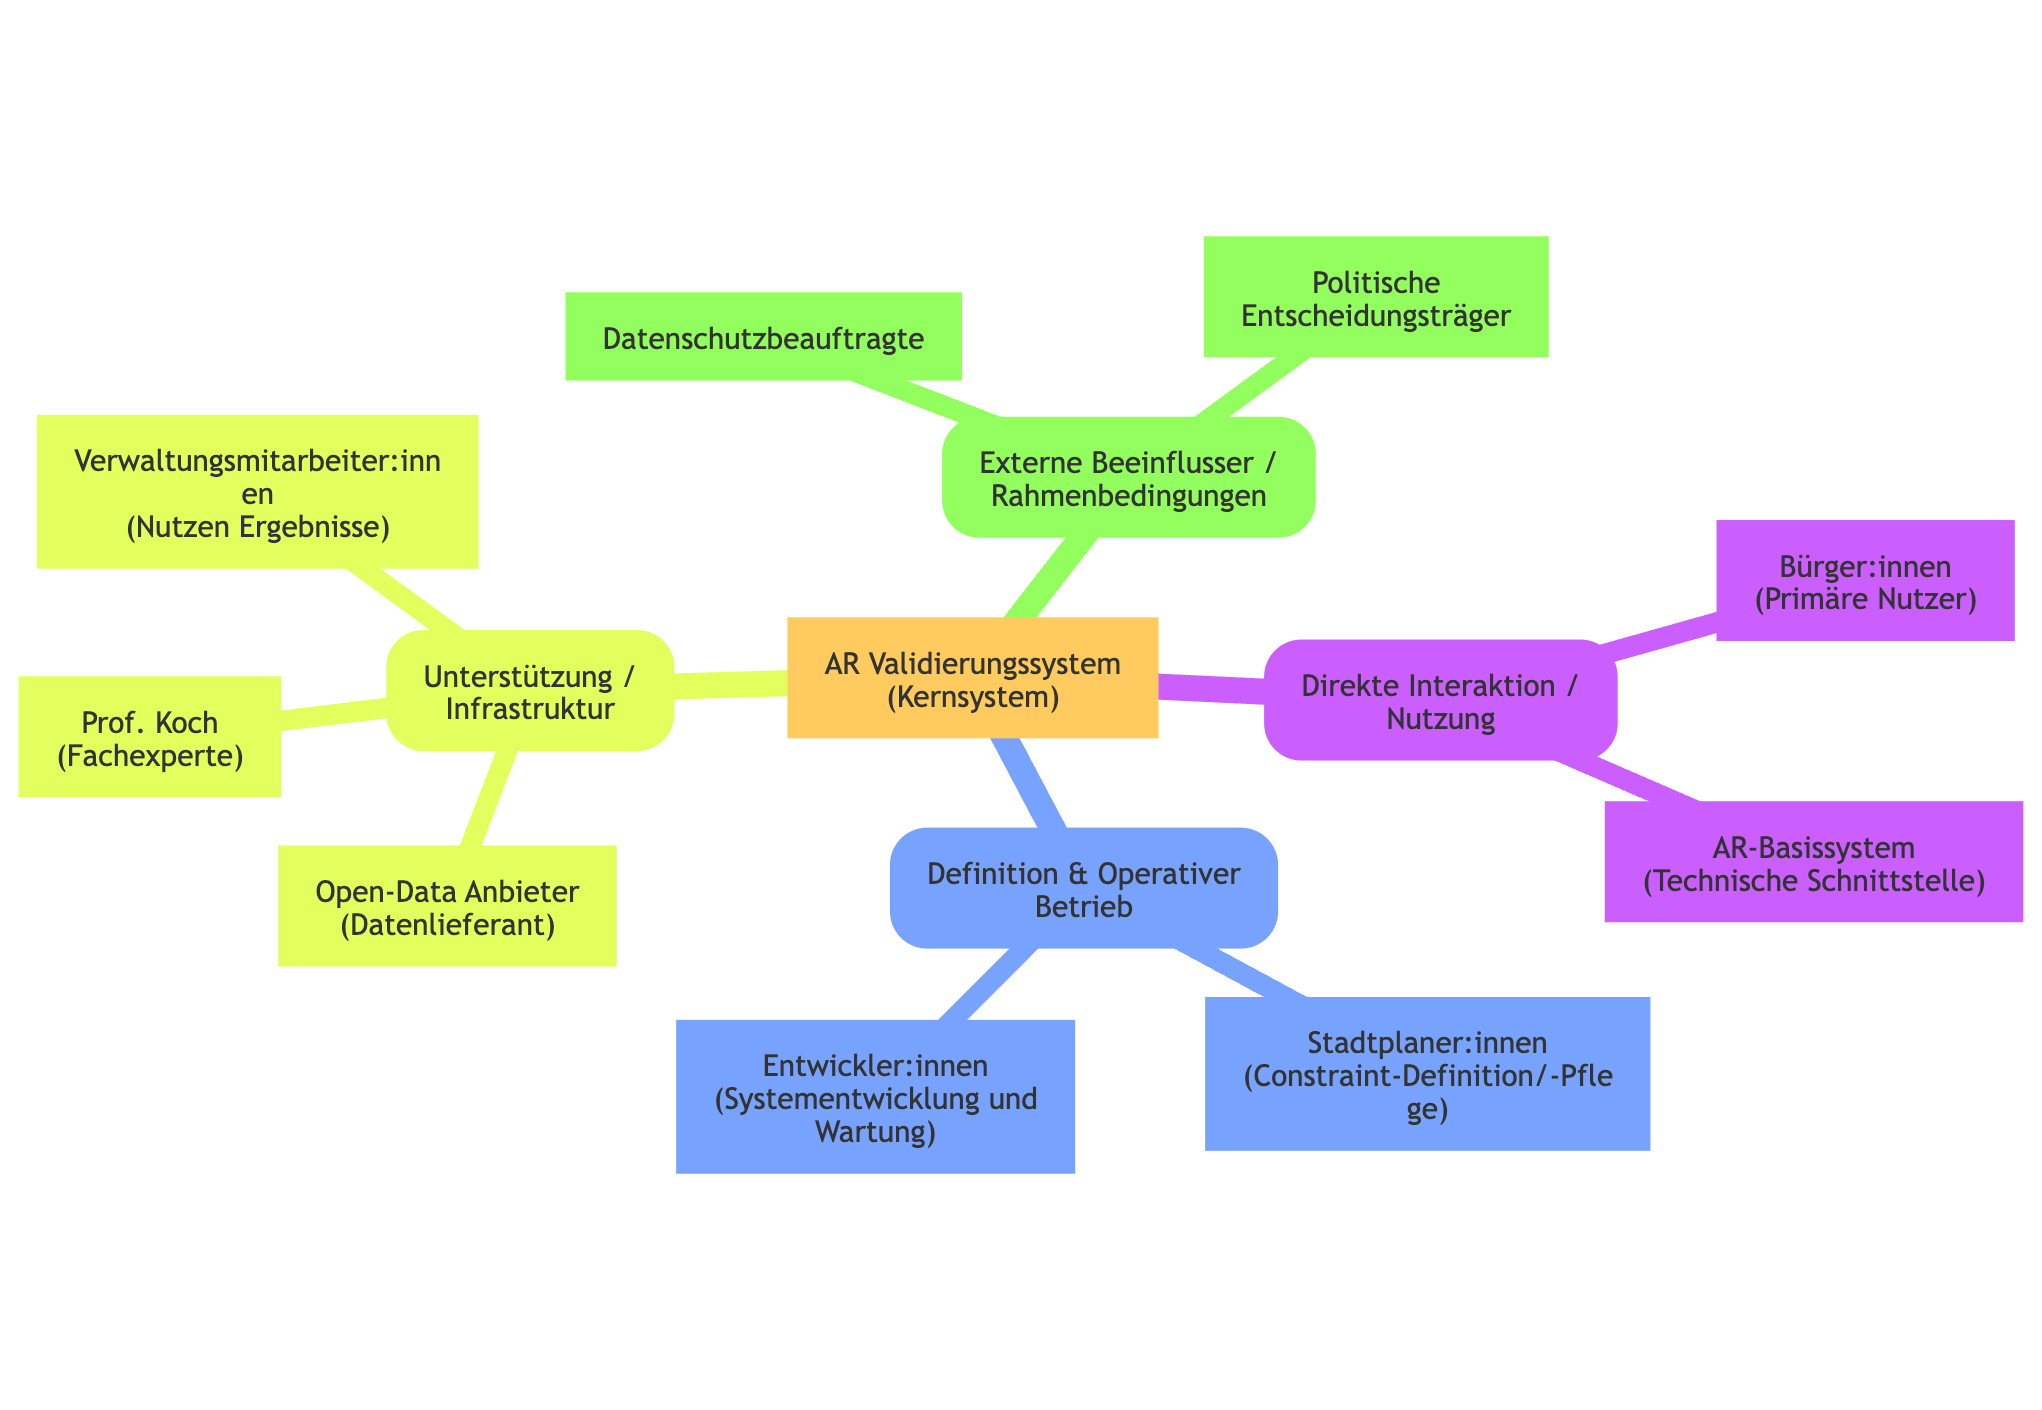
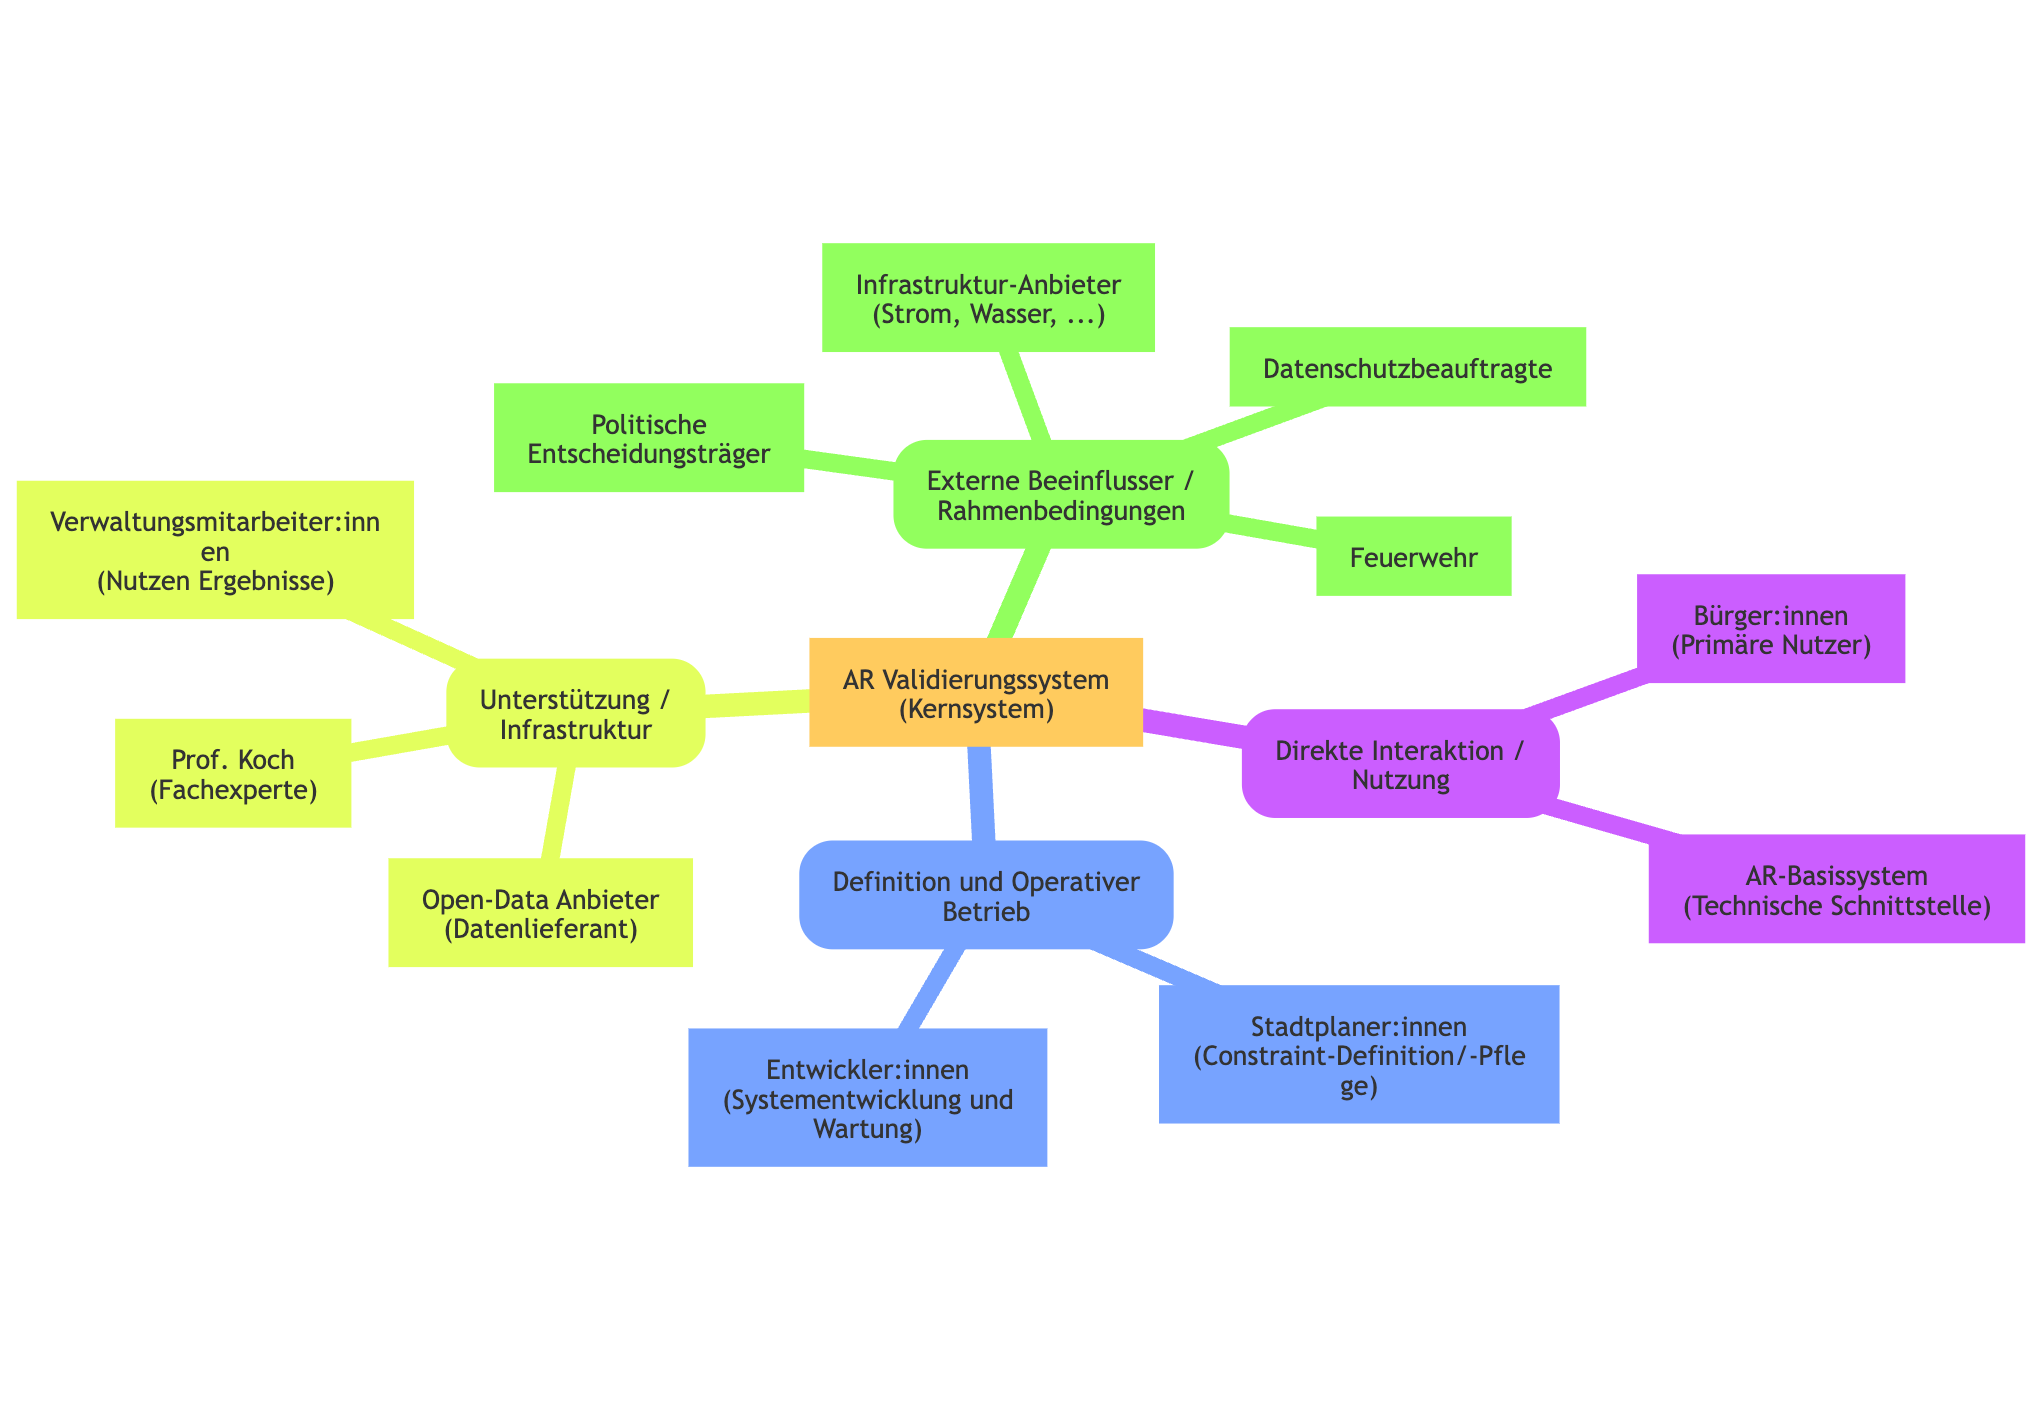
Updates from Overleaf

Changed region(s): [[0.0, 0.156, 1.0, 0.8426]]

diff --git a/content/50 Konzeptualisierung eines Constraint-Systems.tex b/content/50 Konzeptualisierung eines Constraint-Systems.tex
@@ -2,21 +2,21 @@
 
 \subsection{Erstellung einer Syntax für Constraints}
 
-Die Erstellung eines Syntax zur Definition von Regeln für Objekte wird in dieser Arbeit als Domain Specific Language (DSL) Engineering Aufgabe betrachtet. Um ein strukturiertes Vorgehen bei der Ausarbeitung durchzuführen, orientiert sich dieses Kapitel an dem fünfstufigen Prozess zur DSL-Definition nach \textcite{mernikWhenHowDevelop2005}, mit Anpassungen zur besseren Integration in die bisherigen Vorarbeiten der vorherigen Kapitel.
+Die Erstellung einer Syntax zur Definition von Regeln für Objekte wird in dieser Arbeit als \textit{Domain Specific Language} (DSL) Engineering Aufgabe betrachtet. DSL sind solche Programmiersprachen, welche auf spezifische Anwendungsfälle spezialisiert sind und hierdurch eine höhere Ausdruckskraft und Nutzungsfreundlichkeit in diesem Feld als generische Sprachen erreichen können. Im Gegensatz zu generischen Programmiersprachen muss das Ziel einer DSL nicht zwingend sein, einen ausführbaren Code zu generieren, sondern kann vielmehr auch der Ausführung eines größeren Systems dienen. \parencite[S. 316f]{mernikWhenHowDevelop2005}
+
+Um ein strukturiertes Vorgehen bei der Ausarbeitung durchzuführen, orientiert sich dieses Kapitel an dem fünfstufigen Prozess zur DSL-Definition nach \textcite{mernikWhenHowDevelop2005}, mit Anpassungen zur besseren Integration in die bisherigen Vorarbeiten der vorherigen Kapitel.
 
 \subsubsection{Entscheidung}
 
-Der erste Schritt für die Entwicklung eines DSL nach \textcite{mernikWhenHowDevelop2005} ist die Entscheidung, ob ein DSL notwendig ist und um welchen DSL-Typ es sich handelt.
+Der erste Schritt in der Entwicklung eines DSL nach \textcite{mernikWhenHowDevelop2005} ist die Entscheidung, ob ein DSL notwendig ist und um welchen DSL-Typ es sich handeln soll.
 
-Der ARVal Constraint Syntax (nachfolgend \textit{ACS}) kann hierbei als “Data structure representation” kategorisiert werden, da es die Datenstruktur der Regelpakete als separate Datei darstellt.
+Der ARVal Constraint Syntax (nachfolgend \textit{ACS}) kann hierbei als “Data structure representation” typisiert werden, da es die Datenstruktur der Regelpakete als separate Datei darstellt.
 
 Die Spezifizität dieser Art von Daten „relies on initialized data structures whose complexity may make them difficult to write and maintain. Such structures are often more easily expressed using a DSL“ \parencite[S. 323]{mernikWhenHowDevelop2005}. Aus diesem Grund wird die Implementierung eines spezifischeren DSL für den Regel-Syntax als sinvoll angesehen.
 
 \subsubsection{Analyse}
 
 Für die Konzeptionierung einer DSL wird empfohlen, zunächst eine Analyse der Problemdomäne durchzuführen. Teile dieser Ausarbeitung wurde in dieser Arbeit bereits in Kapitel \ref{section:Requirements-Engineering} als Teil des Requirements Engineering durchgeführt.
-
-// TODO: FODA
 
 Abweichend zu \textcite{mernikWhenHowDevelop2005} werden zur besseren Einordnung der benötigten Komponenten der finalen Sprache werden zunächst formale Anforderungen an den Syntax definiert, analog zum bestehenden Requirements Engineering Ansatz.
 
@@ -31,7 +31,7 @@ R-2 & Erweiterbar für Elemente und Methoden \\ \hline
 R-3 & Geeigneter Abstraktionsgrad \\ \hline
 R-4 & Umsetzung als visueller Editor möglich \\ \hline
 R-5 & Eindeutige, nicht-ambigue Definition von Regeln \\ \hline
-R-6 & Unterstützung einfacher Boolean Operationen (AND / OR) \\ \hline
+R-6 & Unterstützung boolscher Operationen (AND / OR) und Verschachtelung \\ \hline
 R-7 & Unterstützung positiver und negativer Regeln \\ \hline
 \end{tabular}
 \caption{Anforderungen an die Constraint-Syntax}
@@ -70,7 +70,7 @@ Wie in Kapitel \ref{section:Verwandte Arbeiten} erarbeitet, sind Regeln in natü
 
 \medskip
 
-Durch R-6 wird definiert, dass einfache Boolean-Operationen von UND- sowie ODER-Verknüpfungen unterstützt werden sollen. Hierdurch sollen komplexere, kontextabhängige Regeln umgesetzt werden können wie „Steht die Bank an einem Gehweg, \textit{muss} diese parallel zum Weg stehen \textit{ODER} wenn die Bank auf einer Grünfläche steht, \textit{kann} diese beliebig rotiert werden“. 
+Durch R-6 wird definiert, dass boolsche Operationen von UND- sowie ODER-Verknüpfungen unterstützt werden sollen, inklusive einer Verschachtelung dieser Operatoren. Hierdurch sollen komplexere, kontextabhängige Regeln umgesetzt werden können wie „Steht die Bank an einem Gehweg, \textit{muss} diese parallel zum Weg stehen \textit{ODER} wenn die Bank auf einer Grünfläche steht, \textit{kann} diese beliebig rotiert werden“. 
 
 \medskip
 
@@ -84,13 +84,7 @@ Durch die Einhaltung dieser formalen Anforderungen kann erhofft werden, die Argu
 
 \epigraph{Design only what is necessary. Learn to recognize your tendency to over-design.}{\textcite[S. 327]{mernikWhenHowDevelop2005}}
 
-Der dritte Schritt in der Syntax-Definition nach \textcite{mernikWhenHowDevelop2005} ist die Durchführung des Syntax-Designs.
-
-Zur Erfüllung der Anforderung R-1 soll das Konzept der Language Specification genutzt werden, um die Infrastruktur einer bestehenden Host-Sprache zu nutzen und für die eigenen DSL zu spezifizieren. 
-
-\textcite{mernikWhenHowDevelop2005} untersucht primär XML-basierte DSL, JSON bietet mittlerweile jedoch ebenfalls eine hohe Unterstützung zu bestehenden Werkzeugen an und besitzt mit JSON Schemas eine Möglichkeit, den Constraint-Syntax zu formalisieren und automatisch in bestehenden Code-Editoren validieren zu lassen \parencite{jsonschemaorganisationJSONSchema2025}. Durch die aktuelle Verbreitung von JSON im Umfeld von Webapplikationen und Ähnlichkeit zu nativen JavaScript-Objekten wird dies daher als Grundlage für \textit{ACS} genutzt.
-
-Durch die Nutzung dieses System kann ebenfalls konzeptionell ein zukünftiger Regel-Editor (R-4) eingearbeitet werden. Die Regeln und Schemas können von diesem Editor verarbeitet und manipuliert werden, ohne eigene Parser-Systeme implementieren zu müssen.
+Der dritte Schritt in der Syntax-Definition nach \textcite{mernikWhenHowDevelop2005} ist die Durchführung des Syntax-Designs. In diesem Schritt werden alle Vorüberlegen zur DSL genutzt, um einer Syntax zur Erfüllung dieser zu definieren.
 
 \medskip
 
@@ -105,6 +99,18 @@ Beispielsweise können die Objekte „Straße“ und „Gehweg“ den Tag „asp
 Zukünftig können hierdurch beliebig neue Tags und Elemente hinzugefügt und können problemlos in bestehende Regeln eingearbeitet werden, ohne den Gesamtsyntax neu definieren zu müssen.
 
 Die Nutzung eines Tagging-System ermöglicht zudem die Nutzung eines geeigneten Abstraktionsgrads (R-3). In Regeldefinitionen kann explizit von „Straße“, „Asphaltiert“ oder „Walkable“ ausgegangen werden, einzelne Methoden können jedoch trotzdem generisch auf alle Tag-Typen angewendet werden.
+
+\medskip
+
+Zur Erfüllung der Anforderung R-1 soll das Konzept der Language Specification genutzt werden, um die Infrastruktur einer bestehenden Host-Sprache zu nutzen und für die eigenen DSL zu spezifizieren. 
+
+\textcite{mernikWhenHowDevelop2005} untersucht primär XML-basierte DSL. JSON bietet mittlerweile jedoch ebenfalls eine hohe Unterstützung zu bestehenden Werkzeugen an und besitzt mit JSON Schemas eine Möglichkeit, den Constraint-Syntax zu formalisieren und automatisch in bestehenden Code-Editoren validieren zu lassen \parencite{jsonschemaorganisationJSONSchema2025}.
+
+Neben dem JSON-basierten Ansatz wurden zusätzlich andere Ansätze als SQL-ähnliche Statements, Code-ähnliche Methodenaufrufe oder OCL-ähnliche Aussagen untersucht, welche in Listing \ref{lst:schemaformate} [S. \pageref{lst:schemaformate}, \ref{anh:Schemaformate}] dargestellt sind. Die untersuchten Formate ergeben sich aus anderen Constraint-Sprachen, welche in den vorherigen Kapiteln untersucht wurden.
+
+Inhaltlich besitzen alle untersuchten Formate ähnliche Elemente, damit die aufgestellten Anforderungen an der Syntax erfüllt werden. So besitzt der Syntax jeweils eine Möglichkeit, um das Tagging des Objekts vorzunehmen, die Transformation einzuschränken und die Platzierung zu validieren. 
+
+Durch die Verbreitung von JSON im Umfeld von Webapplikationen, Ähnlichkeit zu nativen JavaScript-Objekten und Integration in bisherige Sprachen wurde dieser Syntax schließlich als Grundlage für \textit{ACS} genutzt. Die Nutzung des JSON-Schema-Systems kann ebenfalls konzeptionell für einen zukünftigen Regel-Editor (R-4) eingearbeitet werden. Die Regeln und Schemas können von diesem Editor verarbeitet und manipuliert werden, ohne eigene Parser-Systeme implementieren zu müssen.
 
 \medskip
 
@@ -201,7 +207,51 @@ Beispielsweise ist es grundsätzlich nicht sinnvoll, dass der Nutzer einen Baum 
 
 Neben dem informellen Design durch ein konkretes Beispiel wurde ein formelles Design durch die Definition eines JSON-Schemas erstellt, erreichbar unter \url{https://arval.vantezzen.io/acs.schema.json}.
 
-TODO: Dscribe schema
+JSON-Schema Dateien erlauben die Definition von Attributen des Objekts (\textit{Properties}), einer Typisierung und Beschreibung der einzelnen Felder und Definition von verpflichtenden und freiwilligen Feldern.
+
+Eine Besonderheit in der Definition der \textit{ACS}-Schema ist, dass Platzierungsregeln mehrere Ebenen tief verschachtelt sein können und daher rekursiv ausgewertet werden müssen. Zur Erfüllung der Anforderung R-6 (Boolean Operationen), sollen Verschachtelungen wie „\textmono{(a UND b) ODER (c UND (d ODER e))}“ ermöglicht werden. Zur Nutzung von boolischen Operatoren wurden die Elemente „anyOf“ (ODER) und „allOf“ (UND) hinzugefügt, inspiriert vom eigenen Syntax von JSON-Schema Definitionen.
+
+\begin{lstlisting}[frame=htrbl, caption={Komplexe Verschachtelungen boolscher Operationen in ACS}, label={lst:acs-recursive}, language=php]
+{
+  "$schema": "./acs.schema.json",
+  
+  "placement": [
+    {
+      "anyOf": [
+        {
+          // (a OR b)
+          "allOf": [a, b]
+        },
+        {
+          // (c UND (d ODER e))
+          "allOf": [
+            c,
+            // d ODER e
+            {
+              "anyOf": [d, e]
+            }
+          ]
+        }
+      ]
+    }
+  ]
+}
+\end{lstlisting}
+
+Listing \ref{lst:acs-recursive} zeigt die Implementierung dieser Verschachtelung in \textit{ACS} über die Nutzung der „anyOf“ und „allOf“ Operatoren. Um diese Art von rekursiver Definition erlaubter Objekte in der JSON-Schema abzubilden, wurde die Unterstützung wiederverwendbarer Definitionen (\textmono{\$defs}) genutzt.
+
+Intern wird durch die Nutzung der Definition \textmono{placementRuleOrGroup} erlaubt, dass die Platzierung von spezifischen Regeln oder weiteren booleschen Gruppen innerhalb der booleschen Gruppe möglich ist und kann so beliebig verschachtelt werden.
+
+\begin{figure}[h]
+\includegraphics[width=0.7\textwidth]{abb/schema autocomplete.png}
+\centering
+\caption{Nutzung des Schemas in Code-Editoren}
+\label{fig:schema autocomplete}
+\end{figure}
+
+Abbildung \ref{fig:schema autocomplete} zeigt die Nutzung des Schemas im Code-Editor VSCode. Es ist erkennbar, dass über das \textmono{\$schema} Attribut auf das lokale Schema-File verwiesen wird. Bei Erstellung eines neuen Attributs greift der Code-Editor nun auf die Definitionen aus dem Schema zurück und bietet Autovervollständigungen für valide Attributnamen sowie Beschreibungen zu den einzelnen Feldern an.
+
+Wird stattdessen ein invalider Attributname genutzt, wird dieser im Code-Editor rot unterlegt und erhält die Mitteilung „Property \textit{Parametername} is not allowed“.
 
 \subsection{Aufbereitung geographischer Informationen}
 

diff --git a/anhang/anh_Schemaformate.tex b/anhang/anh_Schemaformate.tex
@@ -1,0 +1,43 @@
+\begin{lstlisting}[frame=htrbl, caption={Schemaformate}, label={lst:schemaformate}, language=php]
+// JSON
+{
+    "$schema": "...",
+    "placement": [
+        {
+            "rule": "on_ground"
+        }
+    ],
+    "manipulation": [
+        {
+            "axis": "x_rotation",
+            "status": "disable"
+        }
+    ],
+    "tags": ["plantable", "collider"]
+}
+
+// SQL-like
+- DISALLOW PLACEMENT WHERE ground.type = "street"
+- DISALLOW ROTATION WHERE axis = "x"
+- TAG WITH "plantable"
+    
+// Code-like
+position({
+    on_ground
+    distance_to street > 3m
+    placement_only_on grass
+})
+movement({
+    only_spin
+    no_scale
+})
+tags({
+    plantable
+    collider
+})
+
+// OCL-like
+- context Bench inv: self->placed_on != placement.street
+- context Bench inv: self->movement->x = 0
+- context Bench post: self->tags->add("plantable")
+\end{lstlisting}

diff --git a/content/40 Konzeptualisierung von Constraints.tex b/content/40 Konzeptualisierung von Constraints.tex
@@ -65,14 +65,43 @@ Zur Abgrenzung des Projektumfangs enthält Tabelle \ref{tab:Projektabgrenzung} e
 
 \subsection{Elicitation}\label{subsection:Elicitation}
 
-Für eine vollständige, umfassende Aufarbeitung der benötigten Komponenten wurde zunächst eine mehrteilige Erhebung aller relevanten Ressourcen durchgeführt. Hierbei wurden verschiedene Techniken kombiniert, darunter ein Dokumentenstudium, aufgearbeitet in Kapitel \ref{section:Verwandte Arbeiten}, ein Experteninterview, aufgearbeitet in Kapitel \ref{subsubsection:Interview mit Prof. Koch}, sowie Beobachtungstechniken zu bisherigen Technologien, aufgearbeitet in Kapitel \ref{subsubsection:Analyse existierender Constraint-Systeme}.
+Für eine vollständige, umfassende Aufarbeitung der benötigten Komponenten wurde zunächst eine mehrteilige Erhebung aller relevanten Ressourcen durchgeführt. Hierbei wurden verschiedene Techniken kombiniert, darunter ein Dokumentenstudium, aufgearbeitet in Kapitel \ref{section:Verwandte Arbeiten}, ein Experteninterview, aufgearbeitet in Kapitel \ref{subsubsection:Experteninterview}, sowie Beobachtungstechniken zu bisherigen Technologien, aufgearbeitet in Kapitel \ref{subsubsection:Analyse existierender Constraint-Systeme}.
 
-\subsubsection{Interview mit Prof. Koch}\label{subsubsection:Interview mit Prof. Koch}
+\subsubsection{Experteninterview}\label{subsubsection:Experteninterview}
 
-Für die Erhebung von Anforderungen aus Sicht der Stadtplanung wurde ein qualitatives, halbstrukturiertes Experteninterview mit Prof. Dr. Florian Koch, Professor für Immobilienwirtschaft, Stadtentwicklung und Smart Cities an der HTW Berlin, durchgeführt \parencite{kochStartseiteProfDr2025}.
+Für die Erhebung von Anforderungen aus Sicht der Stadtplanung wurde ein qualitatives, halbstrukturiertes Experteninterview mit einem Stadtplaner durchgeführt. Ziel des Gesprächs war es, die realen Herausforderungen und aktuellen Stand von Bürgerbeteiligung zu erarbeiten, und einen Überblick über die Denkweise in Verwaltungen und Stadtplanungen zu erhalten. Das vollständige Interview ist in \ref{anh:Experteninterview Stadtplaner} [S. \pageref{anh:Experteninterview Stadtplaner}] verschriftlicht.
 
-TODO
-% Interview mit Prof. Koch, Stadtplaner, über häufige Vorschläfe, nötige Einschränkungen etc.
+Das Interview bestätigte zunächst, dass Bürgerbeteiligungen aktuell vor allem formal strukturiert stattfinden. Als Beispiel wurde hierfür die Plattform \textit{Mein Berlin}\footnote{\url{http://mein.berlin.de/}} genannt, bei welchem Planungsunterlagen von Behörden bereitgestellt und von Bürgern kommentiert werden können. Konzepte für andere Formate existieren zwar, sind aber meist nur experimentell, selten institutionalisiert und auf Forschungsprojekte beschränkt.
+
+In vielen Fällen sei hierbei die Einbindung der Ideen schwierig, da Bürgerinteressen immer nur einen Aspekt von vielen darstellt. Für die Umsetzung von Veränderungen müssen etwa zusätzliche Meetings mit vielen Partien durchgeführt werden, darunter Verwaltungen, Stadtplaner, Feuerwehr, Wasser- und Stromversorger und Eigentümer.
+
+\medskip
+
+Im Kern des Gesprächs standen vor allem die Grenzen und Chancen automatisierten Validierungsmechanismen, wie solche, die in ARVal umgesetzt werden sollen. Es zeigte sich deutlich, dass viele scheiternde Vorschläge aus drei Hauptkategorien resultieren: (1) Eigentums- und Haftungsfragen, (2) Maßstäblichkeit und technische Umsetzbarkeit, sowie (3) langfristige Pflege und Unterhalt.
+
+Die Frage nach dem Eigentum ist oft komplex in der Beantwortung. Zwar besitzt die öffentliche Hand ein Grundbuch, dieses ist jedoch nicht öffentlich einsehbar. Flächen auf Privatgrundstück können jedoch auch nicht prinzipiell für Vorschläge ausgeschlossen werden, da es in Abstimmung mit den Eigentümern auch trotzdem zur Akzeptanz von Ideen kommen kann. Bei Veränderung von beispielsweise Schulhöfen muss zusätzlich geklärt werden, welche der Parteien die Haftungen bei Unfällen übernimmt.
+
+Im zweiten Punkt steht die Maßstäblichkeit und technische Umsetzbarkeit von Ideen. Dies beinhaltet etwa die Beschränkung von Platz bei großen Bauvorhaben, aber auch Budget-Einschränkungen und Interessen anderer Nutzer, darunter auch z.B. Feuerwehr-Wendekreisen, Wartungsflächen für unterirdische Versorgung oder Bodenbelastungen durch historische Nutzung.
+
+Zuletzt muss auch die langfristige Pflege und Unterhalt der Gegenstände und Flächen geklärt werden. Auch wenn etwa das Pflanzen eines Baumes zunächst günstig ist, muss dieser jährlich gepflegt und beschnitten werden, um eine Gefährdung auszuschließen.
+
+Für die vollständige Klärung aller Aspekte ist für das Projekt ARVal ein vollständig valides und kontextsensitives Regelwerk (z.B. zu Feuerwehr-Wendekreisen oder Bodenbelastungen) systemisch kaum abbildbar ist – nicht nur aufgrund technischer Limitationen, sondern weil auch Verwaltungen selbst solche Informationen oft nicht konsolidiert vorliegen haben. Trotzdem kann versucht werden, öffentlich bekannte Aspekte abzubilden.
+
+\medskip
+
+Dennoch eröffnet das Interview auch konkrete Chancen für das System. Ein wiederkehrendes Motiv war die Bedeutung von Nachvollziehbarkeit für Bürger:innen. Ein häufiger Punkt partizipativer Stadtplanung sei dabei, dass Bürger:innen zwar Zeit und Arbeit für Vorschläge aufwenden, jedoch nie über die weitere Verarbeitung informiert werden. Die Transparenz der Entscheidung, auch bei Nicht-Umsetzbarkeit, wird dabei als zentral für die Akzeptanz empfunden.
+
+Durch die direkte Validierung der Vorschläge können Bürger:innen nicht nur eine Rückmeldung bekommen, sondern auch über die Details der Ablehnung informiert werden durch verständliche, kontextuell begründete Fehlermeldungen. Erhält der Nutzer beispielsweise die Information „Die Bank kann hier nicht platziert werden, da sie die Zufahrt für Rettungsfahrzeuge blockieren würde“, kann einer potenziellen Frustration über die Ablehnung entgegengewirkt werden.
+
+\medskip
+
+Zuletzt wurde im Interview erarbeitet, dass eine Balance zwischen utopischen Vorschlägen und zu stark beschränkter „Alibi-Beteiligung“ gefunden werden muss. Ein System, das zu stark durch harte Regeln limitiert, könnte den Eindruck erwecken, dass Bürger:innen lediglich aus vorgegebenen Optionen wählen dürfen und individuelle Ideen nicht akzeptiert werden. Ist das System jedoch zu offen, kann stattdessen der Verwaltungsaufwand in Behörden durch Auswertung nicht umsetzbarer Ideen erhöht werden.
+
+\medskip
+
+Insgesamt bestätigt das Interview sowohl die Relevanz als auch die Grenzen des geplanten Systems und fügt den Aspekt der Nachvollziehbarkeit als zentrales Element hinzu. Es kann vor allem erhofft werden, dass die Implementierung von Begründungen für Einschränkung die Frustration bei Nutzern durch Ablehnung verringern kann.
+
+Es kann keine vollständige Abbildung der Relationen und Interessen aller Parteien abgebildet werden, da die Erstellung eines all-umfänglichen System für die Verwaltung aller Interessen weit über ARVal hinaus geht. Trotzdem können einige der grundlegenden Prüfungen automatisiert und formell abgebildet werden.
 
 \subsubsection{Analyse existierender Constraint-Systeme}\label{subsubsection:Analyse existierender Constraint-Systeme}
 

diff --git a/anhang/anh_Interview.tex b/anhang/anh_Interview.tex
@@ -1,0 +1,27 @@
+\begin{flushleft}
+\textbf{Interview mit einem Stadtplaner über digitale Beteiligung und Regeln für öffentliche Räume} \\
+Durchgeführt vom Autor im Rahmen der Masterarbeit. Das Interview wurde transkribiert und sprachlich leicht geglättet, ohne inhaltliche Änderungen.
+\end{flushleft}
+
+\begin{description}
+\item[Author:] Welche Form von partizipativer Stadtplanung begegnen Ihnen am meisten? Oder was für digitale Werkzeuge werden genutzt?
+\item[Stadtplaner:] Es gibt ja unterschiedliche Arten von Partizipation. Das eine ist Information, dann eben Mitgestaltung oder auch Mitentscheidung. Und es gibt, je nachdem, in was für einem Kontext man sich befindet, eine formelle Art der Beteiligung. Das heißt, es gibt eine Information darüber, wenn ein Bebauungsplan erstellt wird. Und das wird dann, in Berlin beispielsweise, auf einer Plattform angekündigt, und man kann dann Kommentare dazu schreiben. Das ist eine Form, die relativ formalisiert ist. Das heißt, dass die bei sehr vielen Beteiligungsverfahren, die das Land Berlin durchführt, auch angewandt wird. Das hat so ein paar Fallstricke, aber ist zumindest immer eine Möglichkeit, digitale Beteiligung durchzuführen. Alles andere sind dann eher experimentelle Verfahren, die mal ausprobiert werden. Also dass man irgendwelche, weiß ich nicht, virtuellen Szenarien entwirft mit den Bürgerinnen und Bürgern. Das ist aber nicht die Standardbeteiligung. Also wie gesagt, die Standardbeteiligung, die die Stadtplanungsämter durchführen, ist plattformbasiert. Dann wird ein Plan ausgelegt, kennen Sie sicher. Und dann gibt es die Möglichkeit, da Kommentare zu geben.
+\item[Author:] Haben Sie da irgendwelche Erfahrungen, was denn am meisten als Kommentar gesetzt wird? Gibt es da irgendwelche Muster?
+\item[Stadtplaner:] Nein, das hängt natürlich vom Verfahren ab, um was es geht. Also es gibt da ganz unterschiedliche Anlässe, um das zu machen. Und je nachdem, was für ein Anlass es ist, sind natürlich auch die Kommentare unterschiedlich. Wenn es darum geht, dass ein neuer Bebauungsplan aufgestellt wird, dann ist eines der häufigsten Kommentare, auch wenn ich das jetzt nicht statistisch validiert habe, dass es die Bürgerinnen und Bürger generell nicht gut finden und erstmal grundsätzlich ablehnen, weil das führt zu mehr Verkehr, das führt zu Staub und Lärm beim Bauprozess, und eventuell wird auch noch die Sicht eingeschränkt. Also oftmals so eine ablehnende Haltung. Natürlich wird das dann auch teilweise noch differenziert. Aber das ist oftmals ein Ergebnis von Beteiligungsprozessen, dass das Projekt eben grundsätzlich infrage gestellt wird.
+\item[Author:] Um mal so ein bisschen mehr zu diesem vielleicht auch experimentellen Teil zu kommen. Ich glaube, Sie hatten da auch bei ein paar solcher experimentellen Szenarien mitgewirkt, wenn ich das richtig im Kopf habe?
+\item[Stadtplaner:] Ja, wir hatten auch ein Forschungsprojekt, wo es um Räume ging, die geteilt werden sollen. Und da hatten wir auch so ein paar Sachen ausprobiert, also auch so ein Beteiligungsformat. Das war ein bisschen schwierig, weil das war dann zu Corona Zeiten und insofern war es dann eben nur im digitalen Raum. Wir haben dann auch so ein paar Nachbarschaftstreffen gemacht. Da ging es darum, dass wir erstmal wissen wollten von den Bewohnerinnen und Bewohnern, welche Orte im Stadtteil ihnen besonders wichtig sind, welche Wünsche sie haben, was für Ängste sie auch haben und wo man vielleicht mit Flächen neu umgehen kann. Wir haben das aber relativ, ich sage mal, traditionell dann gemacht in Form wie gesagt einer Online-Befragung. Und daraufhin hatten wir dann ein beteiligtes Architekturbüro, hat dann daraufhin Entwürfe gezeichnet, und diese Entwürfe haben wir dann noch mal mit den Bewohnergruppen abgestimmt. Also es war nicht so, dass wir – was Ihr Forschungsprojekt macht – die Entwürfe im digitalen Raum irgendwie zur Verfügung gestellt haben, sondern es waren eben Zeichnungen, und über die haben wir dann diskutiert. Wir hatten noch ein anderes ganz nettes Format, wo wir einen Zeichner hatten, der Live-Zeichnungen gemacht hat. Das heißt, es gab ein Fest, die Leute haben erzählt, was sie sich alles wünschen, und dann gab es einen, der das live gezeichnet hat. Das war für die Bewohner eigentlich ganz nett anzugucken - okay, wie sieht sowas denn dann aus? Das waren dann auch teilweise ein bisschen verrückte Sachen. Da gab es dann eine Gruppe, die wollte einen öffentlichen Pizzabackofen, hat er das gezeichnet, und dann konnte man sich anschauen, wie so eine Skizze dann aussieht. Es war aber nicht so, dass wir von der Stadtverwaltung beauftragt wurden, Beteiligungsverfahren durchzuführen.
+\item[Author:] Wenn wir jetzt daran denken, dass Bürger über so ein System frei vorschlagen können. Gibt es da bestimmte Aspekte, die Ihnen einfallen würden, wo so etwas am ehesten scheitern könnte oder falsch sein könnte? So etwas wie Abstände, Barrierefreiheit etc.?
+\item[Stadtplaner:] Ja, der Hauptpunkt ist Eigentumsfragen. Wem gehört der Grund und Boden? Oftmals hat man da Vorstellungen darüber, dass man irgendwie etwas machen will, aber das ist dann auf dem Grundstück von jemand anderem, und dann funktioniert es eben nicht. Also das heißt, diese Eigentumsfragen spielen eine ganz große Rolle. Wenn man sich jetzt auf öffentlichen Plätzen bewegt, dann ist es einfacher. Das ist oftmals das Thema, dass diese Eigentumsfragen vernachlässigt werden, aber auch Haftungsfragen. Wenn man jetzt irgendwie den Schulhof neu umgestalten möchte, dann ist das ein Thema. Wie gesagt, hängt mit Eigentum auch zusammen. Ansonsten sind so ein paar Punkte. Klar, Abstandsflächen. Wenn ich jetzt sage, ich will ein neues Stadion – also wenn ich jetzt im großen Maßstab denke, ich will irgendwie ein neues Stadion bei mir im Kiez bauen – dann ist es aus 1000 Gründen nicht möglich. Also die Maßstäblichkeit, sich das zu überlegen. Technische Umsetzung: Wenn ich Kinder frage, was wollen sie am liebsten? Dann sagen die, sie wollen irgendwie ein Schwimmbad auf der Straße. Das ist dann natürlich technisch nicht umsetzbar. Ansonsten könnten Hindernisse auch noch irgendwie Lärmbelästigung sein. Wenn ich daran denke, dass Spielplätze, Sportplätze und so weiter gewünscht werden, dass das dann zu einer Lärmbelästigung führt und daher nicht möglich ist. Dann noch ganz wichtig ist die Frage der Pflege. Also wenn ich jetzt sage, ich möchte hier eine Grünfläche haben, dann stellt sich oftmals die Frage, wer pflegt denn, wer ist für den Unterhalt zuständig, wer entfernt Müll usw.? Und das wird oftmals auch vernachlässigt oder könnte auch ein Hindernis sein, gerade bei öffentlichen Beteiligungsverfahren. Weil ich natürlich sagen kann, wir haben kein Geld, um noch mehr Grünflächen zu pflegen.
+\item[Author:] Und bei Eigentumsfragen, wem gehört was? Schaut man dann als Stadtplaner einfach ins Grundbuch?
+\item[Stadtplaner:] Das ist nicht so einfach. Die öffentliche Hand hat natürlich Zugriff auf Grundbücher und weiß, wem was gehört. Diese Daten sind aber nicht öffentlich zugänglich. Das heißt, wenn ich Leute beteiligen möchte, dann kann ich nur sagen, das ist jetzt Privatgrundstück, das heißt, hier kann nicht beteiligt werden, und hier kann jetzt irgendwie der Platz umgestaltet werden. Es sei denn, ich habe vorher irgendwie einen Deal mit dem Eigentümer, dass der sagt, ja, ich habe auch Interesse daran, dass der Platz umgestaltet wird. Anders gesagt, ich kann beim Beteiligungsverfahren sagen, was ist öffentlich und was ist privat. Ich darf aber nicht automatisch auch sagen, wem die private Fläche dann gehört.
+\item[Author:] Gibt es da irgendwelche Standards, irgendwelche Checklisten, auf die man sich als Stadtplaner stützt?
+\item[Stadtplaner:] Es gibt die Berliner Leitlinien für Partizipation. Das wäre so etwas, wo man sich daran stützen kann. Ansonsten, was immer ein Thema ist, ist die Frage des Zwecks der Beteiligung. Also worum geht es eigentlich und was passiert mit den Beteiligungsergebnissen? Geht es nur darum, Ideen zu sammeln? Oder geht es darum, wirklich etwas umzusetzen? Die Gefahr bei Beteiligungsprozessen ist eigentlich immer die, dass die Bürgerinnen und Bürger dann hinterher das Gefühl haben, dass nichts passiert, obwohl sie so viele tolle Ideen gemacht haben. Also das heißt, dieses Nachverfolgen, was passiert mit meinen Ideen, warum wird vielleicht auch was nicht umgesetzt, das ist etwas, was wichtig ist und was oftmals vernachlässigt wird. Weil, wenn ich mich jetzt als Bürger hinsetze und sage, ich möchte etwas, das heißt, ich investiere da auch Zeit, dann möchte ich natürlich wissen, was passiert mit meinen Ergebnissen.
+\item[Author:] Wenn man jetzt an so ein Tool oder Mein Berlin denkt, was sind da so Voraussetzungen, damit eine Behörde so ein Tool überhaupt wirklich ernst nehmen kann?
+\item[Stadtplaner:] Natürlich sind bei Planungsprozessen die Bürger nur ein Akteur, der zu beteiligen ist. Man hat dann, die Träger öffentlicher Belange, das heißt, Feuerwehr muss beteiligt werden, es müssen verschiedene Ämter beteiligt werden. Es muss, wie gesagt, wenn man unterschiedliche Eigentümer hat, die noch beteiligt werden. Das heißt, es ist selten der Fall, dass die Einwände der Bürger etwas ganz Neues bringen, was im Beteiligungsprozess nicht schon von anderen angesprochen wurde. Also, insofern glaube ich, dass es sicherlich hilfreich ist für die Stadtverwaltung, wenn man da mit einem neuen Tool noch besser die Meinungen der Bürger abholen könnte, aber ob das jetzt wirklich dazu führt, dass die Beteiligungsprozesse besser werden? Das könnte ich mir vorstellen, dass es ohnehin so komplex ist und dass jede Lösung nur ein Kompromiss ist. Vielleicht wäre das interessant für ein Planungstool, dann zu sagen, aus welchen Gründen haben wir uns für eine Lösung entschieden. Also diese Nachvollziehbarkeit, das könnte ich mir vorstellen, dass das ein Mehrwert ist.
+\item[Author:] Wenn man sich jetzt vorstellt, dass so sehr kleine Einwendungen, etwa eine neue Bank, ist. Denken Sie, dass das irgendwie schon noch realistisch ist, dass da die Behörde dann sagen könnte, dann bauen wir die Bank da noch mehr hin?
+\item[Stadtplaner:] Ja, das könnte ich mir schon vorstellen. Also, vielleicht bei konkreten Gestaltungsfragen, wo es jetzt nicht darum geht, ob in meinem Hinterhof jetzt ein fünfgeschossiges Haus gebaut wird, sondern wenn es um so Kleinigkeiten geht, wo können wir eine neue Bank hinstellen? Wo brauchen wir mehr Schattenplätze oder irgendwie so was? Da könnte ich mir schon vorstellen, dass die Einwände der Bürger dann auch leichter umsetzbar sind. Aber da müsste es dann so gestaltet sein, dass das Verfahren relativ unaufwendig für die Verwaltung ist. Also wenn ich mir überlege, wie überlastet die Verwaltung ist, und dann zu sagen, jetzt machen wir ein Beteiligungsverfahren, wo es nur darum geht, ob wir eine oder drei Bänke hinstellen sollen, dann wird die Verwaltung vielleicht sagen, das ist jetzt nicht so ganz entscheidend, wir haben andere Probleme, die viel größer sind. Also, daher die Möglichkeit, so was einfach zu realisieren, ist für die Verwaltung etwas, was das Programm stärken würde. Es gibt mit Mein Berlin eine Plattform, über die die Beteiligung abläuft. Und wenn es jetzt darum geht, Beteiligungsverfahren oder neue Tools zu entwickeln, dann denke ich, dass diese Einbindung in Mein Berlin ein wichtiger Faktor ist, weil dadurch es für die Verwaltung dann auch einfacher ist, so was umzusetzen. Und auf der anderen Seite durch die Plattform eine gewisse Öffentlichkeit sowieso entsteht, weil auf Mein Berlin kann man alles Mögliche suchen. In anderen Ländern, in anderen Städten mag das anders sein, aber für Berlin glaube ich, dass eben diese Verknüpfung mit der existierenden Plattform wichtig ist.
+\item[Author:] Sie irgendwelche Risiken oder Probleme, wenn man so statische, feste Regeln in so ein System überführt?
+\item[Stadtplaner:] Ja, also das Risiko ist aus Bürgersicht, dass dann gesagt wird, es interessiert gar nicht die Meinung der Bürger, ob was gut ist oder was schlecht ist, sondern es geht ja nur darum, die Farbe der Mauer oder die Farbe des neuen Gebäudes zu bestimmen. Also, je gestrickter es ist, umso weniger Entscheidungsspielraum gibt es natürlich. Und teilweise besteht dann die Gefahr, dass das als Alibi-Beteiligung wahrgenommen wird. Also, wenn ich sage, ich möchte jetzt hier eine neue Straße bauen und die Bürger können entscheiden, ob der Beton hellgrau oder dunkelgrau ist. Das glaube ich, ist eine Gefahr. Auf der anderen Seite, wäre es natürlich durchaus hilfreich, wenn man die Kosten irgendwie im Blick hat. Wenn ich sage, ich möchte jetzt etwas haben, aber ich habe ein Budget von zwanzigtausend Euro, was ist denn damit möglich? Und vielleicht wären da digitale Tools irgendwie ein Ansatz zu sagen, ich kann alles machen, aber es darf nicht mehr als zwanzigtausend Euro kosten. Also es ist immer so ein bisschen, es ist immer eine Balance zwischen, ich will nicht, dass da nur Sachen rauskommen, die komplett utopisch sind und sowieso nicht realisiert werden können, auf der einen Seite. Und auf der anderen Seite eben so eine Alibi-Beteiligung, wo es eigentlich um gar nichts mehr geht und alles schon entschieden ist. Also, das ist immer eine Abwägung.
+\item[Author:] Denken Sie, dass noch irgendwelche offenen Fragen sind, die in so einem Projekt unbedingt berücksichtigt werden sollten?
+\item[Stadtplaner:] Ich glaube, der Punkt ist bei der Bürgerbeteiligung, dass die Herausforderungen, die existieren, gerade im städtischen Raum - der Raum ist knapp und der Raum ist umkämpft. Natürlich sagt die Stadtplanung, am liebsten wäre uns, wenn wir hier toll Bänke für die Bürger aufstellen können. Auf der anderen Seite ist das aber genau die Fläche, die die Feuerwehr braucht, um den Wendekreis von ihren Löschfahrzeugen zu benutzen. Und gleichzeitig ist das eine Fläche, die mit Altlasten verseucht ist. Das heißt, wo sich die Bürger eigentlich ohnehin nicht aufhalten sollten. Diese Komplexität, die halt dazu führt, dass selten genau das umgesetzt wird, was die Bürgerinnen und Bürger sich wünschen. Das ist, glaube ich, die Herausforderung. Aber, wenn man das als Potenzial sehen will, dann ist das ja auch durch die digitalen Tools vielleicht möglich, diese Komplexität auch dann besser aufzuzeigen und die unterschiedlichen Anforderungen an den Raum auch zu beleuchten. Wenn ich sage, ich wünsche mir jetzt hier für meine Straße eine Bank mit Schatten und einem Trinkbrunnen nebendran, weil alle meine Nachbarn sagen auch, dass das total notwendig ist und wir schlagen das gemeinsam vor und es kommt dann eben nicht, dann muss ich als Bürger abgeholt werden und mir muss erklärt werden, warum das nicht passiert. Und das ist so ein bisschen die Krux bei der Beteiligung. Vielleicht kann man es sicherlich noch nicht so eins zu eins komplett umsetzen, aber zumindest ein paar. Und das versuchen Sie ja auch mit Ihren Regeln, die Sie da aufstellen wollen. Also wie gesagt, ich glaube, es geht nicht nur darum, den Bürgern irgendwie ein Tool zu geben, wo diese alles Mögliche einzeichnen können, sondern den Bürgern die Möglichkeit zu geben, auch zu sagen, warum eben die Sachen vielleicht dann doch nicht so einfach realisierbar sind. Und wenn es eine Geldsache ist oder irgendwie eben die Grenzen der Beteiligung aufzeigen. Sie werden immer noch über die Verwaltung schimpfen, aber vielleicht werden sie sehen, es ging jetzt halt nicht anders aus den und den Gründen.
+\end{description}

diff --git a/anhang/anhang.tex b/anhang/anhang.tex
@@ -3,14 +3,15 @@
 \renewcommand{\thetable}{\Alph{subsection}.\arabic{table}}
 \renewcommand{\thesubsection}{Anhang~\Alph{subsection}}
 
-% ---- Anhang A ----
 \subsection{Stakeholder}
 \label{anh:Stakeholder}
 \input{anhang/anh_Stakeholder Tabelle}
 
-\clearpage
+\subsection{Experteninterview Stadtplaner}
+\label{anh:Experteninterview Stadtplaner}
+\input{anhang/anh_Interview}
 
-% ---- Anhang B ----
+\clearpage
 \subsection{Nutzungsszenarien}
 \label{anh:Nutzungsszenarien}
 
@@ -20,10 +21,14 @@
 \newpage
 \input{anhang/anh_Use Case Details}
 
-% ---- Anhang C ----
 \clearpage
 \subsection{Systemanforderungen}
 \label{anh:Systemanforderungen}
 \input{anhang/abh_Systemanforderungen}
+
+\clearpage
+\subsection{Schemaformate}
+\label{anh:Schemaformate}
+\input{anhang/anh_Schemaformate}
 
 \FloatBarrier

diff --git a/anhang/anh_Stakeholder Tabelle.tex b/anhang/anh_Stakeholder Tabelle.tex
@@ -16,6 +16,8 @@
 \hline
 \textbf{Entwickler:in} & Stabile Technik, geringe Latenz, überschaubarer Integrationsaufwand & Typsichere API, klare Fehlercodes, Versionierung & Mittel & Komplexe Regelsets vs. Performance-Budget \\
 \hline
+\textbf{Feuerwehr und Infrastruktur-Anbieter} & Vorschläge sollten nicht in operativen Betrieb eingreifen (Wendekreis, Wartung, …) & Modellierung von Nutzungsbereichen & Mittel & Einfachheit der Wartung vs. Freiheit von Vorschlägen \\
+\hline
 \end{tabular}
     \egroup
     

diff --git a/anhang/anh_Use Cases.tex b/anhang/anh_Use Cases.tex
@@ -10,7 +10,7 @@
 UC-ID & Use-Case-Name & Primärer Akteur & Ziel / Kurzbeschreibung & Zugeordnete User-Stories \\
 \hline\hline
 
-\textbf{UC-VAL-001} & Objektvorschlag validieren & Bürger:in & Prüft einen platzierten Objektvorschlag gegen das Regelwerk und liefert ein Valid/Invalid-Ergebnis. & US-B-001, US-B-002, US-B-004, US-B-005 \\
+\textbf{UC-VAL-001} & Objektvorschlag validieren & Bürger:in & Prüft einen platzierten Objektvorschlag gegen das Regelwerk und liefert ein Valid/Invalid-Ergebnis. & US-B-001, US-B-002, US-B-004, US-B-005, US-B-006 \\
 \hline
 \textbf{UC-VAL-002} & Live-Feedback bei Platzierung & Bürger:in & Liefert während Drag/Move eine Anzeige durch rote Hinterlegung, damit eine gültige Position schneller gefunden wird. & US-B-003 \\
 \hline

diff --git a/anhang/anh_User Stories.tex b/anhang/anh_User Stories.tex
@@ -17,6 +17,8 @@
 \textbf{US-B-004} & \textbf{Als Bürgerin} möchte ich, dass der Validator \textbf{unterschiedliche Objektklassen} (Sitzbank, Zebrastreifen, Pflanzkübel + Baum) korrekt erkennt, \textbf{damit} ich vielfältige Vorschläge einreichen kann. & 1. Für jede Klasse existiert ein Regelpaket.2. Bei der Verschiebung von Objekten wird das korrekte Regelpaket geladen und ausgewertet. \\
 \hline
 \textbf{US-B-005} & \textbf{Als Bürgerin} möchte ich, dass meine Sitzbank nur auf \textbf{erlaubten Flächen} (Gehweg, Grünfläche) platziert werden kann, \textbf{um} Verkehrssicherheit zu gewährleisten. & 1. Platzierung auf Layer \verb|street| → Fehler \verb|RULE-GEO-01|.2. Platzierung auf Layer \verb|sidewalk| oder \verb|green| → kein \verb|RULE-GEO-01|.3. Layer-Mapping gem. Geodaten-Schema \\
+\hline
+\textbf{US-B-006} & \textbf{Als Bürgerin} möchte, dass ich \textbf{einen Grund} für eine Ablehnung erfahre, um eine Frustration darüber entgegenzuwirken & 1. Jede Regel besitzt ein \verb|reason| Attribut. 2. Bei \verb|valid = false| wird das Attribut angezeigt \\
 \hline\hline
 \textbf{Stadtplaner:innen} &  &  \\
 \hline